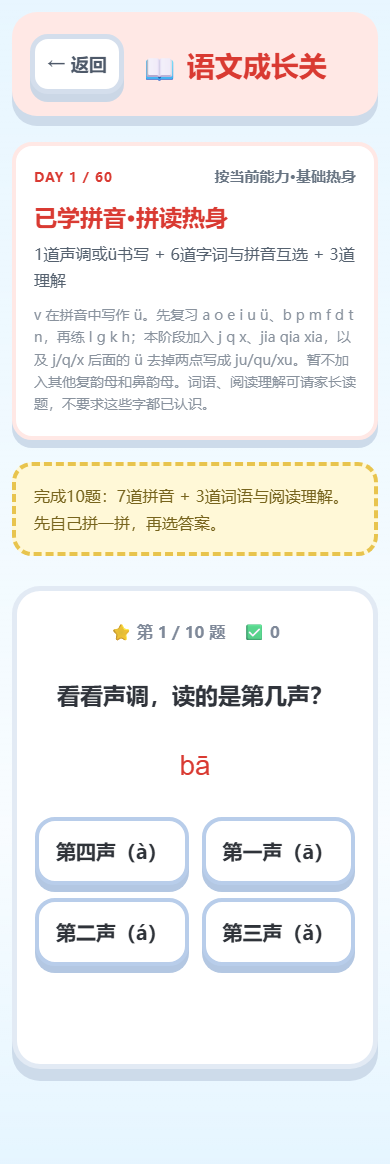
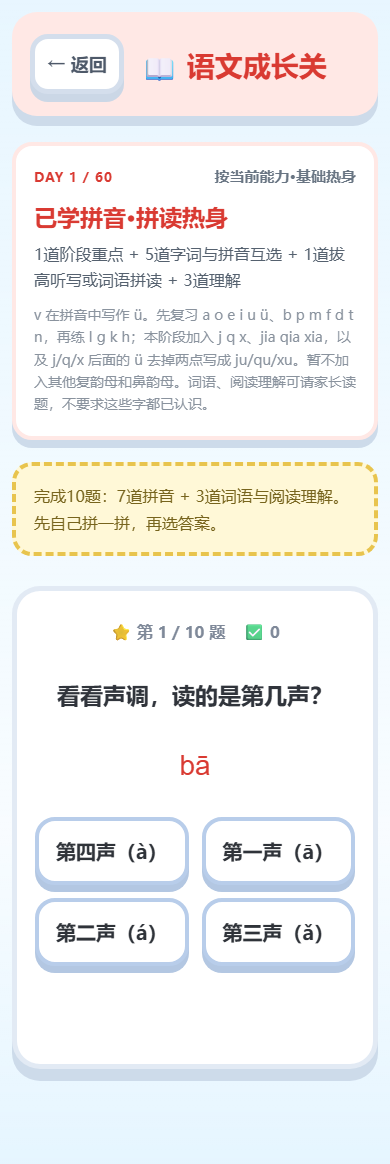
更新 zh ch sh r 语文拼音题库

Changed region(s): [[0.0923, 0.1856, 0.8923, 0.2474]]

diff --git a/curriculum.js b/curriculum.js
@@ -326,7 +326,14 @@
     ["j", "iǎ", "甲"], ["q", "ià", "恰"], ["x", "iá", "侠"], ["x", "ià", "下"],
     ["j", "ū", "居"], ["j", "ú", "菊"], ["j", "ǔ", "举"], ["j", "ù", "句"],
     ["q", "ū", "区"], ["q", "ú", "渠"], ["q", "ǔ", "取"], ["q", "ù", "去"],
-    ["x", "ū", "需"], ["x", "ú", "徐"], ["x", "ǔ", "许"], ["x", "ù", "续"]
+    ["x", "ū", "需"], ["x", "ú", "徐"], ["x", "ǔ", "许"], ["x", "ù", "续"],
+    ["z", "ì", "字"], ["c", "uò", "错"], ["s", "ì", "四"],
+    ["zh", "ī", "知"], ["zh", "í", "直"], ["zh", "ǐ", "纸"], ["zh", "ì", "值"], ["zh", "ū", "朱"],
+    ["ch", "ī", "吃"], ["ch", "ǐ", "尺"], ["ch", "ū", "出"], ["ch", "ē", "车"],
+    ["sh", "ī", "狮"], ["sh", "í", "十"], ["sh", "ū", "书"], ["sh", "ì", "是"], ["sh", "é", "蛇"],
+    ["r", "ù", "入"], ["r", "ì", "日"], ["r", "é", "人"],
+    ["zh", "uō", "桌"], ["zh", "uǎ", "爪"], ["sh", "uā", "刷"], ["sh", "uō", "说"], ["r", "uò", "弱"],
+    ["zh", "ǔ", "主"], ["ch", "uō", "戳"], ["f", "àn", "饭"]
   ];
   const phraseGroups = [
     ["大米", "dà mǐ", 0], ["木马", "mù mǎ", 0], ["地图", "dì tú", 0],
@@ -338,7 +345,16 @@
     ["可乐", "kě lè", 2], ["河马", "hé mǎ", 2], ["葫芦", "hú lu", 2],
     ["河堤", "hé dī", 2], ["大河", "dà hé", 2], ["拔河", "bá hé", 2],
     ["加法", "jiā fǎ", 3], ["下巴", "xià bā", 3], ["家里", "jiā lǐ", 3],
-    ["下课", "xià kè", 3], ["大侠", "dà xiá", 3]
+    ["下课", "xià kè", 3], ["大侠", "dà xiá", 3],
+    ["蜘蛛", "zhī zhū", 4], ["吃饭", "chī fàn", 4], ["狮子", "shī zi", 4],
+    ["直尺", "zhí chǐ", 4], ["说书", "shuō shū", 4], ["桌子", "zhuō zi", 4],
+    ["爪子", "zhuǎ zi", 4], ["车子", "chē zi", 4], ["四十", "sì shí", 4],
+    ["日出", "rì chū", 4], ["主人", "zhǔ rén", 4]
+  ];
+  const dictationGroups = [
+    ["吃", "chī"], ["爪", "zhuǎ"], ["蛇", "shé"], ["入", "rù"], ["是", "shì"], ["桌", "zhuō"],
+    ["字", "zì"], ["尺", "chǐ"], ["书", "shū"], ["戳", "chuō"], ["值", "zhí"], ["弱", "ruò"],
+    ["错", "cuò"], ["说", "shuō"], ["主", "zhǔ"], ["车", "chē"], ["四", "sì"], ["日", "rì"]
   ];
   const toneVowels = ["āáǎà", "ōóǒò", "ēéěè", "īíǐì", "ūúǔù", "ǖǘǚǜ"];
   const toneOf = (text) => {
@@ -348,15 +364,26 @@
     return -1;
   };
   const otherPhrases = (pool, item, column) => pool.filter((entry) => entry !== item).map((entry) => entry[column]);
+  const dictationQuestionFor = (index) => {
+    const [character, sound] = dictationGroups[index % dictationGroups.length];
+    const wrongs = dictationGroups.filter(([item]) => item !== character).map(([item]) => item);
+    return targetedChoice("拔高听写：家长读一读，选出对应的字。", sound, character, wrongs, {
+      skill: "dictation",
+      visualClass: "pinyin-text",
+      example: `请家长先读“${sound}”，孩子再选择汉字。`
+    });
+  };
   const comprehensionPool = [
     ...chineseSpecial.flatMap((entry) => entry.questions),
     ...hanziUnits.map(makeHanziLesson).map((entry) => entry.questions[2]),
     ...readingUnits.map(makeReadingLesson).map((entry) => entry.questions[0])
   ];
   const pinyinCoreFor = (index) => {
-    const level = index < 3 ? 0 : index < 6 ? 1 : index < 9 ? 2 : 3;
-    const available = syllableGroups.slice(0, level === 0 ? 12 : level === 1 ? 16 : level === 2 ? 24 : syllableGroups.length);
-    const focused = level === 0 ? available : level === 1 ? available.slice(12) : level === 2 ? available.slice(16) : available.slice(24);
+    const level = index < 3 ? 0 : index < 6 ? 1 : index < 9 ? 2 : index < 33 ? 3 : 4;
+    const stageRanges = [[0, 12], [12, 16], [16, 24], [24, 43], [43, syllableGroups.length]];
+    const [stageStart, stageEnd] = stageRanges[level];
+    const available = syllableGroups.slice(0, stageEnd);
+    const focused = syllableGroups.slice(stageStart, stageEnd);
     const syllable = focused[index % focused.length];
     const [initial, final] = syllable;
     const sound = initial + final;
@@ -369,13 +396,19 @@
     const tone = toneOf(final);
     const toneQuestion = targetedChoice("看看声调，读的是第几声？", sound, toneNames[tone], toneNames.filter((_, i) => i !== tone), { skill: "pinyin-tone", visualClass: "pinyin-text" });
     const writingQuestion = targetedChoice("j、q、x和ü相拼时，书写上怎样变化？", "j + ü → ju；q + ü → qu；x + ü → xu", "ü上面的两点要去掉", ["ü的两点要保留", "把声母改成g", "不用读声调"], { skill: "pinyin-writing" });
+    const overallQuestion = targetedChoice("本周要重点认读的整体认读音节是哪一组？", "整体认读音节", "zhi、chi、shi、ri", ["z、c、s", "zhuo、zhua、shua", "j、q、x"], { skill: "pinyin-overall", visualClass: "pinyin-text" });
+    const retroflexQuestion = targetedChoice("下面哪一组都是翘舌音？", "平舌音：z、c、s", "zh、ch、sh、r", ["z、c、s", "b、p、m、f", "j、q、x"], { skill: "pinyin-retroflex" });
+    const tripleQuestion = targetedChoice("下面哪个是三拼音节？", "zhī　zhuō　shī", "zhuō", ["zhī", "shī", "rì"], { skill: "pinyin-triple", visualClass: "pinyin-text" });
+    const stageWritingQuestion = targetedChoice("课堂上要把哪组声母在四线三格本上规范书写？", "本周书写练习", "zh、ch、sh、r", ["z、c、s", "j、q、x", "b、p、m、f"], { skill: "pinyin-writing" });
+    const stageQuestion = index % 4 === 0 ? overallQuestion : index % 4 === 1 ? retroflexQuestion : index % 4 === 2 ? tripleQuestion : stageWritingQuestion;
+    const lastCoreQuestion = level >= 4 ? dictationQuestionFor(index) : targetedChoice("读一读拼音，选出对应的词语。", wordC[1], wordC[0], otherPhrases(words, wordC, 0), { skill: "pinyin-to-text", visualClass: "pinyin-text", example: `自己先拼读一次，再选择。${wordC[1].split(" ").some((part) => toneOf(part) < 0) ? "没有声调的小音节读轻声。" : ""}` });
     return [
-      level === 3 && index % 2 === 0 ? writingQuestion : toneQuestion,
+      level === 3 ? (index % 2 === 0 ? writingQuestion : toneQuestion) : level >= 4 ? stageQuestion : toneQuestion,
       targetedChoice("看看这个字，选出它的拼音。", textCharacter[2], textCharacter[0] + textCharacter[1], available.filter((entry) => entry !== textCharacter).map(([a, b]) => a + b), { skill: "text-to-pinyin" }),
       targetedChoice("读一读拼音，选出对应的汉字。", soundCharacter[0] + soundCharacter[1], soundCharacter[2], otherPhrases(available, soundCharacter, 2), { skill: "pinyin-to-text", visualClass: "pinyin-text" }),
       targetedChoice("先读词语，再选出它的拼音。", wordA[0], wordA[1], otherPhrases(words, wordA, 1), { skill: "text-to-pinyin" }),
       targetedChoice("先拼一拼，选出对应的词语。", wordB[1], wordB[0], otherPhrases(words, wordB, 0), { skill: "pinyin-to-text", visualClass: "pinyin-text" }),
-      targetedChoice("读一读拼音，选出对应的词语。", wordC[1], wordC[0], otherPhrases(words, wordC, 0), { skill: "pinyin-to-text", visualClass: "pinyin-text", example: `自己先拼读一次，再选择。${wordC[1].split(" ").some((part) => toneOf(part) < 0) ? "没有声调的小音节读轻声。" : ""}` })
+      lastCoreQuestion
     ];
   };
   const targetedChinese = Array.from({ length: 60 }, (_, index) => {
@@ -383,11 +416,15 @@
     const echoIndex = Math.max(0, index - (index % 2 ? 5 : 1));
     const echoQuestion = pinyinCoreFor(echoIndex)[3 + index % 3];
     const understanding = Array.from({ length: 3 }, (_, offset) => ({ ...comprehensionPool[(index * 3 + offset) % comprehensionPool.length], skill: "understanding" }));
-    return lesson(index < 3 ? "已学拼音·拼读热身" : index < 6 ? "新课 l·和熟悉音节一起读" : index < 9 ? "g k h·拼音和词语天天练" : "j q x·jia qia xia与ü书写", "1道声调或ü书写 + 6道字词与拼音互选 + 3道理解", [
+    const title = index < 3 ? "已学拼音·拼读热身" : index < 6 ? "新课 l·和熟悉音节一起读" : index < 9 ? "g k h·拼音和词语天天练" : index < 33 ? "j q x·jia qia xia与ü书写" : "zh ch sh r·翘舌音、整体认读和三拼音节";
+    const note = index < 33
+      ? "v 在拼音中写作 ü。先复习 a o e i u ü、b p m f d t n，再练 l g k h；本阶段加入 j q x、jia qia xia，以及 j/q/x 后面的 ü 去掉两点写成 ju/qu/xu。暂不加入其他复韵母和鼻韵母。词语、阅读理解可请家长读题，不要求这些字都已认识。"
+      : "本阶段练习翘舌音 zh、ch、sh、r，复习它们和 z、c、s 平舌音的发音区别；重点认读整体认读音节 zhi、chi、shi、ri，拼读 zhuo、zhua、shua、shuo、ruo，并用蜘蛛、吃饭、狮子、直尺、桌子等词语组词。拔高听写覆盖吃、爪、蛇、入、是、桌、字、尺、书、戳、值、弱、错、说、主、车、四、日。书写题只检查在四线三格本上规范练写这组声母，不替代老师的笔画示范。";
+    return lesson(title, "1道阶段重点 + 5道字词与拼音互选 + 1道拔高听写或词语拼读 + 3道理解", [
       ...core,
       { ...echoQuestion, prompt: `${index === 0 ? "热身再练" : index % 2 ? "五日回声" : "昨日回声"}：${echoQuestion.prompt}` },
       ...understanding
-    ], "v 在拼音中写作 ü。先复习 a o e i u ü、b p m f d t n，再练 l g k h；本阶段加入 j q x、jia qia xia，以及 j/q/x 后面的 ü 去掉两点写成 ju/qu/xu。暂不加入其他复韵母和鼻韵母。词语、阅读理解可请家长读题，不要求这些字都已认识。");
+    ], note);
   });
 
   const arithmetic = (a, op, b, prompt = "算一算。") => {
@@ -519,7 +556,7 @@
       totalDays: 60,
       totalQuestionInstances: 1200,
       reviewRhythm: "语文交替加入昨日与五日前拼读；英语每个词连续最多两天，后20天混合复习",
-      alignment: "按孩子实际能力调整：语文推进至 j q x、jia qia xia 和 ju/qu/xu 书写；数学20以内；英语20个入门词"
+      alignment: "按孩子实际能力调整：语文推进至 zh ch sh r、zhi chi shi ri、zhuo zhua shua shuo ruo 及翘舌/平舌音辨析；数学20以内；英语20个入门词"
     }
   };
 })();

diff --git a/CURRICULUM_SOURCES.md b/CURRICULUM_SOURCES.md
@@ -2,9 +2,9 @@
 
 ## 2026年10月按实际能力调整
 
-本轮依据家长提供的实际学习进度重新编写练习，直接替换旧课程：语文10题（1道声调、6道汉字/词语与拼音互选、3道保留的词语/短句理解），数学5题，英语5题，共60天、1200个出题实例。声母韵母合成与音节拆分题已替换为文字和拼音转换。下文原教材目录与来源用于说明早期设计依据，不表示本轮仍按目录逐课推进。
+本轮依据家长提供的实际学习进度重新编写练习，直接替换旧课程：语文10题（1道阶段重点、6道汉字/词语与拼音互选或拔高听写、3道保留的词语/短句理解），数学5题，英语5题，共60天、1200个出题实例。声母韵母合成与音节拆分题已替换为文字和拼音转换。下文原教材目录与来源用于说明早期设计依据，不表示本轮仍按目录逐课推进。
 
-- 拼音第1～3天复习已学 a o e i u ü、b p m f d t n，第4～6天练 l，第7～9天巩固 l g k h，第10天起加入 j q x、三拼音节 jia/qia/xia，以及 j/q/x 与 ü 相拼时去掉两点、写作 ju/qu/xu 的规则。字词拼读仅使用当前已学声母、韵母和这些三拼音节；理解题仍允许家长读题，不要求所有汉字独立认读。v 是输入 ü 时常用的替代键，本题库规范写 ü。
+- 拼音第1～3天复习已学 a o e i u ü、b p m f d t n，第4～6天练 l，第7～9天巩固 l g k h，第10～33天练 j q x、三拼音节 jia/qia/xia，以及 j/q/x 与 ü 相拼时去掉两点、写作 ju/qu/xu 的规则；第34天起进入 zh ch sh r，练习整体认读音节 zhi/chi/shi/ri、三拼音节 zhuo/zhua/shua/shuo/ruo，并比较 zh/ch/sh/r 翘舌音与 z/c/s 平舌音。新阶段轮换四线三格书写提示和拔高听写，听写字包括吃、爪、蛇、入、是、桌、字、尺、书、戳、值、弱、错、说、主、车、四、日。理解题仍允许家长读题，不要求所有汉字独立认读。v 是输入 ü 时常用的替代键，本题库规范写 ü。
 - 数学第1～10天以20以内不进位、不退位加减热身，第11～25天加入凑十进位加法，第26～60天加入退位减法并综合应用。数位、比较、规律、第几、立体图形、求差和缺数穿插出现。
 - 英语降低为20个常用入门词，每词最多连续2天，前40天完成首次学习，后20天混合复习；先两选一，再三选一，题型轮换。不再以KET衔接为本轮要求。不保证与北京版教材的每课顺序一致，优先适配当前接受程度。
 - 录音由浏览器的 MediaRecorder 提供本地回放；可选 SpeechRecognition 只核对识别出来的单词，不测量音素、口音或发音标准程度。未接入专业发音评分服务。

diff --git a/README.md b/README.md
@@ -21,7 +21,7 @@
 
 ## 课程定位
 
-- 语文：按孩子已学的 a o e i u ü、b p m f d t n，逐步加入 l g k h，再进入本周的 j q x、三拼音节 jia/qia/xia，以及 j/q/x 与 ü 相拼时去掉两点、写作 ju/qu/xu 的规则；以看汉字或词语选拼音、看拼音选汉字或词语为主，保留声调练习，取消单独的声母韵母合成与音节拆分题。保留原题库的词语与阅读理解，不自动超前加入其他声母、复韵母或鼻韵母。
+- 语文：按孩子已学的 a o e i u ü、b p m f d t n，逐步加入 l g k h、j q x，再进入本周的 zh ch sh r；练习整体认读音节 zhi/chi/shi/ri、三拼音节 zhuo/zhua/shua/shuo/ruo、翘舌音与平舌音辨析、词语拼读和拔高听写。以看汉字或词语选拼音、看拼音选汉字或词语为主，取消单独的声母韵母合成与音节拆分题，保留词语理解题。
 - 数学：前10天练20以内不进位、不退位加减，第11～25天加入凑十进位加法，第26天起练20以内加减综合（含退位）；每天穿插分合、数位、比较、规律、顺序、图形和生活应用。
 - 英语：降为20个入门词，每个核心词最多连续练2天，前40天完成首次学习，后20天混合复习；前15天两选一，之后逐步三选一，题型轮换避免重复。暂不考拼写、长句翻译和KET难度内容。
 - 直接替换原题库，不提供两套课程切换。升级时保留原进度和历史成绩，新练习从热身开始；已完成旧60天的用户会保留历史并进入新一轮。
